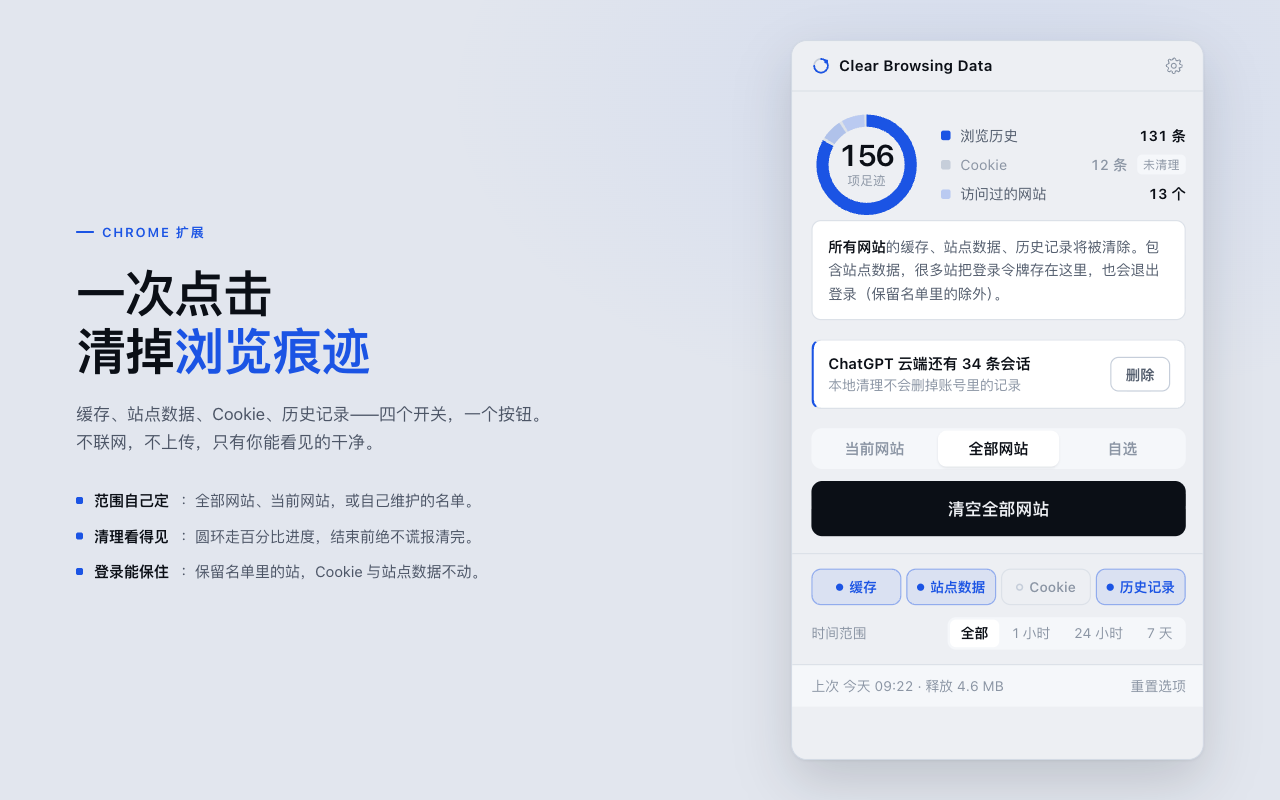
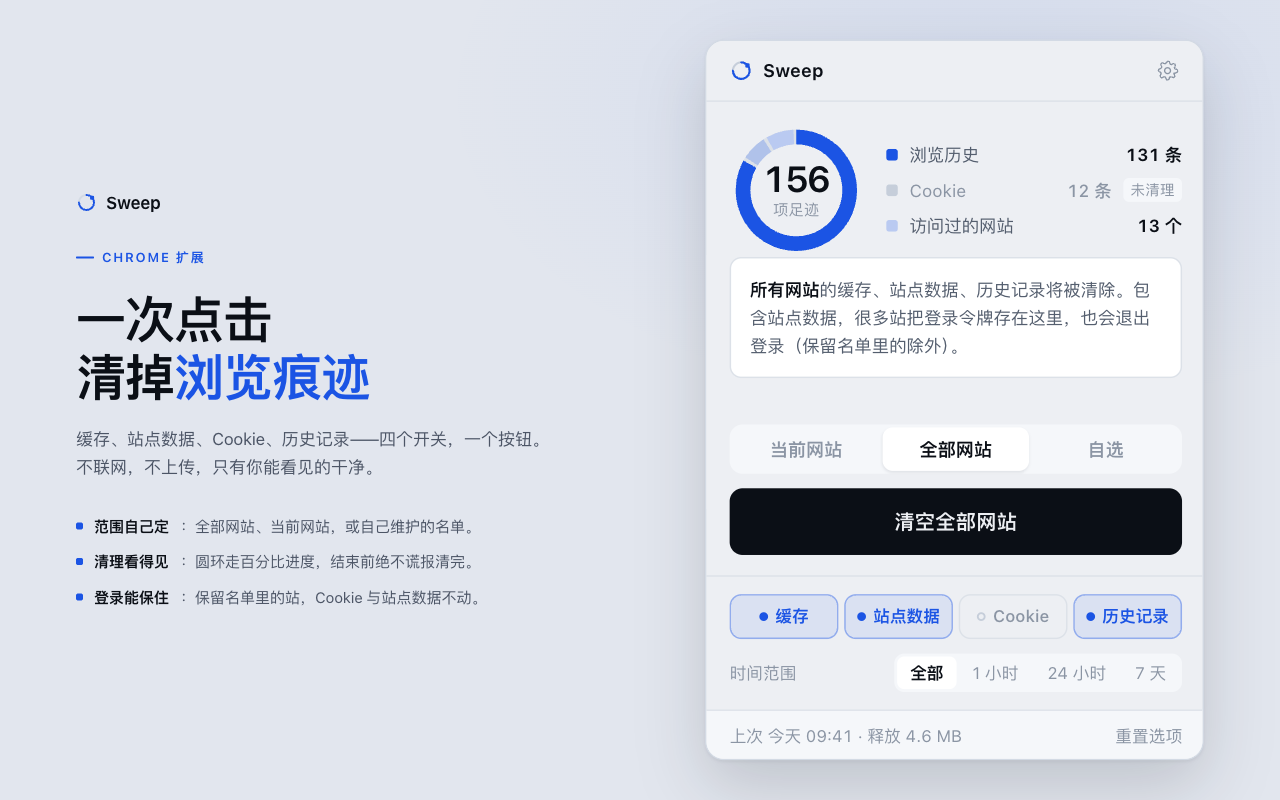
补上商店素材：隐私政策、商店文案、截图与宣传图；加 MIT 许可

diff --git a/store/shots/shot.html b/store/shots/shot.html
@@ -15,6 +15,15 @@
         --signal: #1b54e4;
       }
       * { box-sizing: border-box; }
+      :root { --frame-h: 497px; --scale: 1.45; }
+      :root[data-dark='1'] {
+        --page: #0e1014;
+        --rule: #2a2f38;
+        --ink: #edf0f5;
+        --ink-2: #98a2b0;
+        --ink-3: #6b7482;
+        --signal: #6e9bff;
+      }
       html, body { margin: 0; padding: 0; }
       body {
         width: 1280px;
@@ -38,6 +47,13 @@
       }
 
       .copy { flex: 1; min-width: 0; }
+
+      .brand { display: flex; align-items: center; gap: 9px; margin-bottom: 30px; }
+      .brand svg { width: 21px; height: 21px; overflow: visible; }
+      .mark-track { fill: none; stroke: var(--rule); stroke-width: 2.2; }
+      .mark-arc { fill: none; stroke: var(--signal); stroke-width: 2.2; stroke-linecap: round; }
+      .mark-block { fill: var(--signal); }
+      .brand b { font-size: 17px; font-weight: 620; letter-spacing: 0.01em; }
 
       .eyebrow {
         display: inline-flex;
@@ -105,12 +121,12 @@
       /* 弹窗本体：等比放大后放进一个卡片里 */
       .shot { flex: none; }
       .shot-inner {
-        width: 413px;
-        height: 720px;
+        width: calc(344px * var(--scale));
+        height: calc(var(--frame-h) * var(--scale));
       }
       .frame {
         width: 344px;
-        height: 600px;
+        height: var(--frame-h);
         overflow: hidden;
         border-radius: 13px;
         border: 1px solid var(--rule);
@@ -118,12 +134,12 @@
         box-shadow:
           0 1px 2px rgba(11, 15, 22, 0.06),
           0 18px 44px rgba(11, 15, 22, 0.16);
-        transform: scale(1.2);
+        transform: scale(var(--scale));
         transform-origin: top left;
       }
       .frame iframe {
         width: 344px;
-        height: 600px;
+        height: var(--frame-h);
         border: 0;
         display: block;
       }
@@ -156,7 +172,15 @@
   </head>
   <body>
     <div class="stage">
-      <div class="copy">
+      <div class="copy" data-variant="all">
+        <div class="brand">
+          <svg viewBox="0 0 24 24" aria-hidden="true">
+            <circle cx="12" cy="12" r="8.6" class="mark-track" />
+            <path d="M12 3.4a8.6 8.6 0 1 1-8.6 8.6" class="mark-arc" />
+            <rect x="16.1" y="4.3" width="4.6" height="4.6" rx="1.5" class="mark-block" />
+          </svg>
+          <b>Sweep</b>
+        </div>
         <span class="eyebrow">CHROME 扩展</span>
         <h1>一次点击<br />清掉<em>浏览痕迹</em></h1>
         <p class="lede">
@@ -169,11 +193,54 @@
           <li><b>登录能保住</b>：保留名单里的站，Cookie 与站点数据不动。</li>
         </ul>
       </div>
+      <div class="copy" data-variant="current" hidden>
+        <div class="brand">
+          <svg viewBox="0 0 24 24" aria-hidden="true">
+            <circle cx="12" cy="12" r="8.6" class="mark-track" />
+            <path d="M12 3.4a8.6 8.6 0 1 1-8.6 8.6" class="mark-arc" />
+            <rect x="16.1" y="4.3" width="4.6" height="4.6" rx="1.5" class="mark-block" />
+          </svg>
+          <b>Sweep</b>
+        </div>
+        <span class="eyebrow">当前网站</span>
+        <h1>这个站<br />留下了<em>什么</em></h1>
+        <p class="lede">
+          打开面板就能看到：这个站存了多少条本地数据、<br />
+          占了几 MB，分别在哪些地方。
+        </p>
+        <ul class="points">
+          <li><b>本地存储</b>——偏好设置、草稿，还有很多站的登录令牌。</li>
+          <li><b>数据库</b>——离线内容、消息缓存，体积最大的一块。</li>
+          <li><b>离线缓存</b>——Service Worker 存下来的离线包。</li>
+        </ul>
+      </div>
       <div class="shot">
         <div class="shot-inner">
-          <div class="frame"><iframe src="/src/popup.html" title="Clear Browsing Data" scrolling="no"></iframe></div>
+          <div class="frame"><iframe src="/src/popup.html?tab=https://github.com/anthropics/claude-code" title="Sweep" scrolling="no"></iframe></div>
         </div>
       </div>
     </div>
+    <script>
+      // 文案跟着场景换：两个场景讲两件事。
+      // 这段必须等 DOM 建好——head 里的脚本这时还找不到 .copy。
+      (() => {
+        const params = new URLSearchParams(location.search);
+        if (params.get('theme') === 'dark') document.documentElement.dataset.dark = '1';
+        const variant = params.get('copy') || 'all';
+        document.querySelectorAll('.copy').forEach((el) => {
+          el.hidden = el.dataset.variant !== variant;
+        });
+        // 面板高度随范围变（「当前网站」多一行站点信息）。
+        // 照着实际高度定画布，两种场景的卡片一样高，截图摆在一起才齐。
+        const root = document.documentElement.style;
+        if (variant === 'current') {
+          root.setProperty('--frame-h', '534px');
+          root.setProperty('--scale', '1.35');
+        } else {
+          root.setProperty('--frame-h', '497px');
+          root.setProperty('--scale', '1.45');
+        }
+      })();
+    </script>
   </body>
 </html>

diff --git a/store/shots/tile.html b/store/shots/tile.html
@@ -1,0 +1,81 @@
+<!doctype html>
+<html lang="zh-CN">
+  <head>
+    <meta charset="utf-8" />
+    <title>商店小宣传图</title>
+    <style>
+      :root {
+        --paper: #edeff3;
+        --rule: #d3dae4;
+        --ink: #0b0f16;
+        --ink-2: #4c5566;
+        --signal: #1b54e4;
+      }
+      :root[data-dark='1'] {
+        --paper: #0e1014;
+        --rule: #2a2f38;
+        --ink: #edf0f5;
+        --ink-2: #98a2b0;
+        --signal: #6e9bff;
+      }
+      * { box-sizing: border-box; }
+      html, body { margin: 0; padding: 0; }
+      body {
+        width: 440px;
+        height: 280px;
+        overflow: hidden;
+        background:
+          radial-gradient(340px 220px at 84% 8%, rgba(27, 84, 228, 0.13), transparent 66%),
+          var(--paper);
+        color: var(--ink);
+        font-family: -apple-system, BlinkMacSystemFont, 'Segoe UI', 'PingFang SC', 'Hiragino Sans GB',
+          'Microsoft YaHei', system-ui, sans-serif;
+        -webkit-font-smoothing: antialiased;
+      }
+      .tile {
+        display: flex;
+        flex-direction: column;
+        justify-content: space-between;
+        height: 100%;
+        padding: 34px 36px 32px;
+      }
+      .mark { width: 46px; height: 46px; overflow: visible; }
+      .mark-track { fill: none; stroke: var(--rule); stroke-width: 2.2; }
+      .mark-arc { fill: none; stroke: var(--signal); stroke-width: 2.2; stroke-linecap: round; }
+      .mark-block { fill: var(--signal); }
+      h1 {
+        margin: 0;
+        font-size: 40px;
+        line-height: 1.1;
+        font-weight: 660;
+        letter-spacing: -0.025em;
+      }
+      p {
+        margin: 10px 0 0;
+        font-size: 15px;
+        line-height: 1.5;
+        color: var(--ink-2);
+      }
+    </style>
+    <script>
+      (() => {
+        if (new URLSearchParams(location.search).get('theme') === 'dark') {
+          document.documentElement.dataset.dark = '1';
+        }
+      })();
+    </script>
+  </head>
+  <body>
+    <div class="tile">
+      <svg class="mark" viewBox="0 0 24 24" aria-hidden="true">
+        <circle cx="12" cy="12" r="8.6" class="mark-track" />
+        <path d="M12 3.4a8.6 8.6 0 1 1-8.6 8.6" class="mark-arc" />
+        <rect x="16.1" y="4.3" width="4.6" height="4.6" rx="1.5" class="mark-block" />
+      </svg>
+      <div>
+        <h1>Sweep</h1>
+        <p>一次点击，清掉浏览痕迹</p>
+      </div>
+    </div>
+  </body>
+</html>
